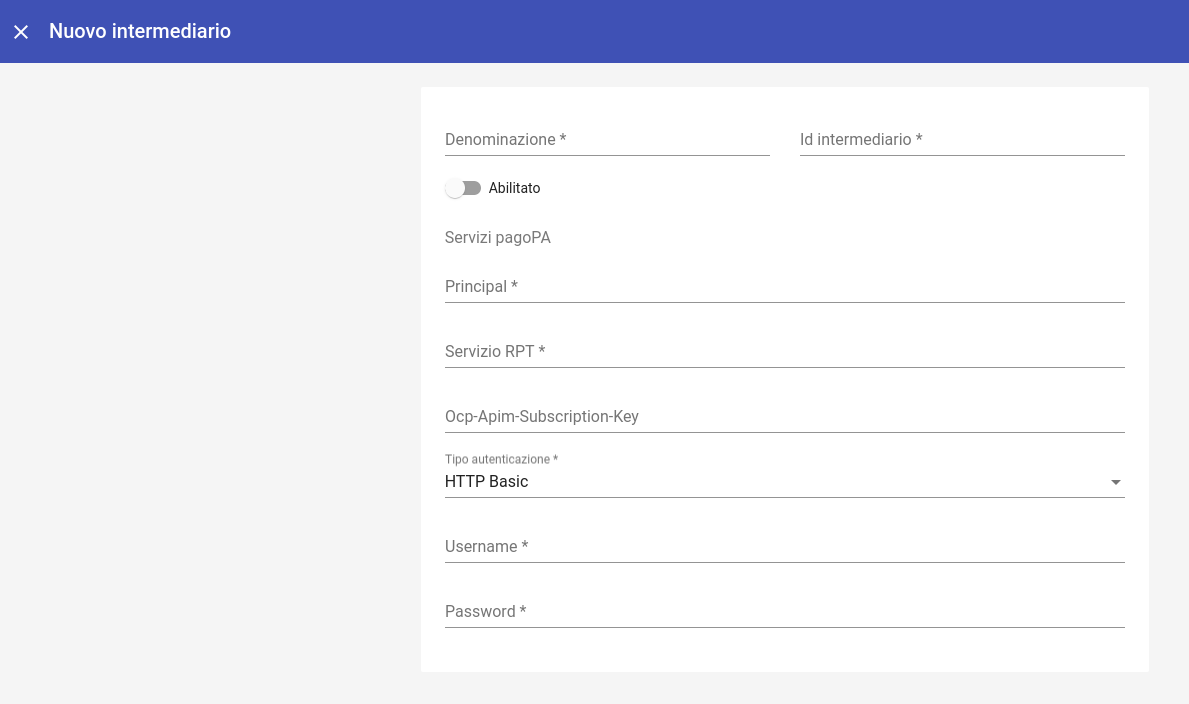
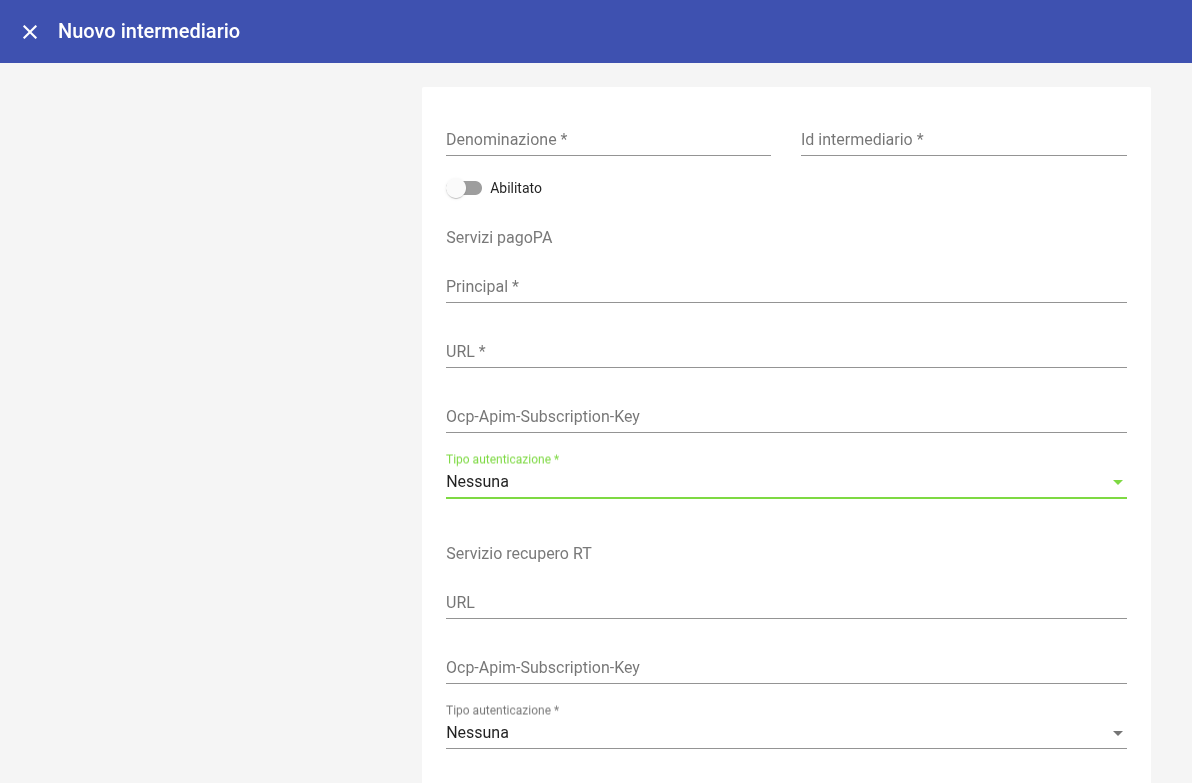
Corretto errore visualizzazione del form di login anche se si era loggati. Aggiornata documentazione: - nuovi campi maschera intermediario - installazione dei nuovi elementi esterni GovPay

diff --git a/wars/web-console/src/main/angular/console/src/app/elements/detail-view/views/dashboard-view/dashboard-view.component.ts b/wars/web-console/src/main/angular/console/src/app/elements/detail-view/views/dashboard-view/dashboard-view.component.ts
@@ -47,6 +47,8 @@ export class DashboardViewComponent implements OnInit, OnDestroy {
         this.hasPagamenti = false;
         this.hasAuthentication = false;
         this.ls.routeToLoginForm(UtilService.URL_DASHBOARD);
+      } else if(_profilo) {
+        this.initDashboard();
       }
     });
     this.govpaySubscription = UtilService.govpayBehavior.subscribe((_govpay: any) => {

diff --git a/docs/cruscotto/configurazione/intermediari/index.rst b/docs/cruscotto/configurazione/intermediari/index.rst
@@ -41,9 +41,20 @@ Le informazioni contenute nel form sono le seguenti:
    "Id Intermediario", "Identificativo dell'intermediario o Partner Tecnologico, fornito da AgID, corrisponde alla Partita IVA del soggetto", "Obbligatorio"
    "Principal", "identificativo (subject certificato o principal) corrispondente alle credenziali con cui Govpay riceve le chiamate in entrata da pagoPA", "Obbligatorio"
    "Abilitato/Non Abilitato", "Stato del nuovo intermediario: indica se l'intermediario è usabile da GovPay per gestire nuovi pagamenti o se impedire nuove richieste.", ""
-   "Servizio RPT", "Riferimenti utilizzati da Govpay per comunicare con il Nodo SPC: Endpoint per le chiamate in uscita verso il Nodo SPC", "Obbligatorio"
+   "Url", "Riferimenti utilizzati da Govpay per comunicare con il Nodo SPC: Endpoint per le chiamate in uscita verso il Nodo SPC", "Obbligatorio"
    "Ocp-Apim-Subscription-Key", "Chiave da inviare a PagoPA per accedere ad alcune risorse, identifica il soggetto chiamante e consente l'accesso alle sole risorse autorizzate", ""
    "Tipo Autenticazione", "Lista a discesa per selezionare il tipo di autenticazione adottata per le comunicazioni con il Nodo SPC. Si può scegliere, al momento, tra *Nessuna e HTTP-Basic, SSL, Header, API-Key e OAuth2 Client Credentials*. Per ogni modalità di autenticazione, dovranno essere inserite i relativi dati di configurazione previsti", ""
+
+Per abilitare il servizio di recupero delle ricevute da pagoPA inserire le seguenti informazioni nella sezione Servizio recupero RT:
+
+.. csv-table:: Dettagli Connettore Recupero RT
+   :header: "Campo", "Significato", "Note"
+   :widths: 40,40,20
+
+   "Url", "Riferimenti utilizzati da Govpay per comunicare il servizio di recupero RT di pagoPA: Endpoint per le chiamate in uscita verso il servizio BizEvents di pagoPA", "Obbligatorio"
+   "Ocp-Apim-Subscription-Key", "Chiave da inviare a PagoPA per accedere ad alcune risorse, identifica il soggetto chiamante e consente l'accesso alle sole risorse autorizzate", "Obbligatori"
+   "Tipo Autenticazione", "Lista a discesa per selezionare il tipo di autenticazione adottata per le comunicazioni con pagoPA. Si può scegliere, al momento, tra *Nessuna e HTTP-Basic, SSL, Header, API-Key e OAuth2 Client Credentials*. Per ogni modalità di autenticazione, dovranno essere inserite i relativi dati di configurazione previsti", ""
+
 
 Selezionando un intermediario dalla pagina che li elenca si accede alla pagina di dettaglio.
 

diff --git a/docs/installazione/configurazione/index.rst b/docs/installazione/configurazione/index.rst
@@ -200,3 +200,61 @@ questo processo.
 
 I files presenti nella directory **dist** dovranno essere utilizzati
 nella fase successiva di dispiegamento di GovPay.
+
+
+Componenti Aggiuntivi
+---------------------
+
+GovPay può essere esteso con componenti aggiuntivi che forniscono funzionalità opzionali.
+Questi componenti sono distribuiti separatamente e possono essere installati in base alle esigenze.
+
+govpay-aca-batch
+~~~~~~~~~~~~~~~~
+
+Batch per l'invio delle posizioni debitorie all'Archivio Centralizzato degli Avvisi (ACA) di pagoPA.
+
+- **Repository:** https://github.com/link-it/govpay-aca-batch
+- **Release:** https://github.com/link-it/govpay-aca-batch/releases
+
+Questo componente consente di:
+
+- Sincronizzare le pendenze di GovPay con l'ACA
+- Gestire l'invio massivo delle posizioni debitorie
+- Monitorare lo stato delle comunicazioni con l'ACA
+
+Il batch può essere schedulato per eseguire periodicamente l'invio delle posizioni debitorie
+non ancora comunicate o aggiornate.
+
+govpay-fdr-batch
+~~~~~~~~~~~~~~~~
+
+Batch per l'acquisizione dei Flussi di Rendicontazione (FdR) da pagoPA.
+
+- **Repository:** https://github.com/link-it/govpay-fdr-batch
+- **Release:** https://github.com/link-it/govpay-fdr-batch/releases
+
+Questo componente consente di:
+
+- Scaricare automaticamente i flussi di rendicontazione dalla piattaforma pagoPA
+- Elaborare e importare i flussi nel database di GovPay
+- Gestire la riconciliazione automatica dei pagamenti
+
+Il batch può essere schedulato per eseguire periodicamente il download e l'elaborazione
+dei nuovi flussi di rendicontazione disponibili.
+
+govpay-gde-api
+~~~~~~~~~~~~~~
+
+API per il Giornale degli Eventi (GDE) esterno.
+
+- **Repository:** https://github.com/link-it/govpay-gde-api
+- **Release:** https://github.com/link-it/govpay-gde-api/releases
+
+Questo componente espone API REST per:
+
+- Ricevere e archiviare gli eventi generati da GovPay
+- Consultare lo storico degli eventi
+- Integrare il giornale eventi con sistemi esterni di monitoraggio
+
+Il servizio GDE può essere configurato come endpoint esterno per la registrazione
+degli eventi, consentendo una gestione centralizzata del logging applicativo.
